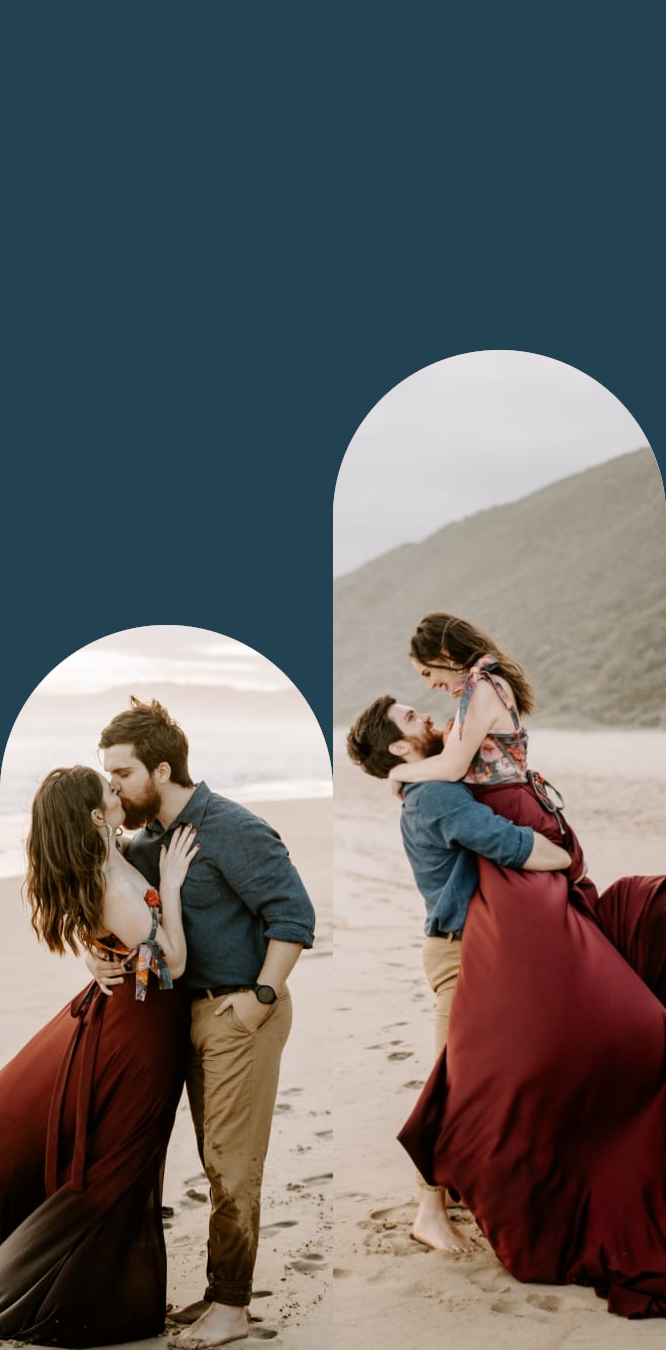
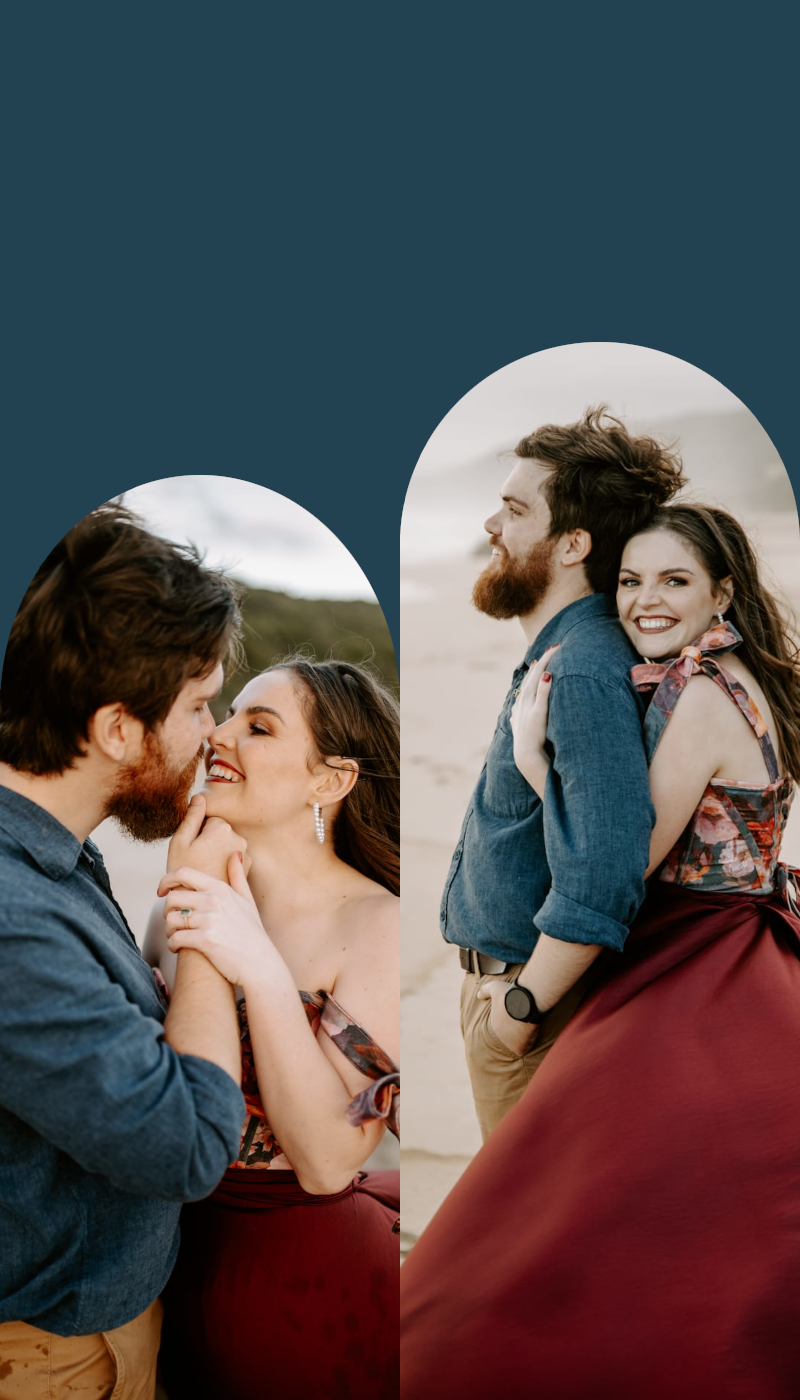
major updates made to home page

diff --git a/src/pages/Home.js b/src/pages/Home.js
@@ -6,6 +6,9 @@ import { FloatingLabel, Button, Form, Image } from "react-bootstrap";
 import initials from "../assets/initials.png";
 import dresscode from "../assets/dresscode.png";
 import desc2 from "../assets/desc2.png";
+import desc2small from "../assets/desc2small.png";
+import desc2xsmall from "../assets/desc2xsmall.png";
+import collage from "../assets/collage.png";
 
 import "./static/home.css";
 
@@ -55,6 +58,8 @@ function HomePage() {
             <div className="invite-wrapper">
                 <div className="day-invite">
                     <Image className="day-image" src={desc2} />
+                    <Image className="day-image-small" src={desc2small} />
+                    <Image className="day-image-xsmall" src={desc2xsmall} />
                 </div>
                 <div className="invite-details">
                     <span className="what-wrapper">
@@ -63,6 +68,8 @@ function HomePage() {
                     <br />
                     <div className="desc-container">
                         <span className="invite-description">
+                            Kom geniet 'n heerlike naweek troue saam ons!
+                            <br />
                             Jy word hartlik uitgenooi om in Ruben en Anjune se spesiale dag te deel.
                             <br />
                             Sien onder belangrike inligting rakende die troudag.
@@ -105,10 +112,13 @@ function HomePage() {
                     <span className="dresscode">kleredrag</span>
                     <br />
                     <span className="dresscode-description">
-                        Mans: swart broek, wit hemp, swart das (swart baadjie opsioneel)
+                        <strong>Swart</strong> en <strong>formeel</strong>
                         <br />
                         <br />
-                        Dames: Swart rok of broekpak (geen vrou mag enige vorm van wit dra nie)
+                        Mans: swart broek, wit hemp, swart das
+                        <br />
+                        <br />
+                        Dames: Swart rok of broekpak
                     </span>
                     <div className="dresscode-images">
                         <Image className="dresscode-image" src={dresscode} />
@@ -121,6 +131,7 @@ function HomePage() {
                     <br />
                     <span className="smaller-details-description">
                         Metgesel slegs per uitnodiging
+                        <br />
                         <br />
                         Kontant kroeg op die venue beskikbaar
                     </span>
@@ -205,7 +216,7 @@ function HomePage() {
                                         value={thirdSong}
                                     />
                                 </FloatingLabel>
-                                <div>
+                                <div className="btn-container">
                                     <Button className="btn btn-color submit-button" type="submit">
                                         submit
                                     </Button>
@@ -275,7 +286,6 @@ function HomePage() {
                     </span>
                 </div>
             </div>
-            <div className="images-wrapper"></div>
             <div className="clock-wrapper">
                 <div className="countdown-clock">
                     <FlipCountdown
@@ -285,6 +295,9 @@ function HomePage() {
                         endAt={"2024-03-30 15:00:00"}
                     />
                 </div>
+            </div>
+            <div className="images-wrapper">
+            <Image className="collage" src={collage} />
             </div>
         </div>
     );

diff --git a/src/pages/static/home.css b/src/pages/static/home.css
@@ -1,9 +1,12 @@
 body {
     background-image: url("../../assets/main.jpeg");
     background-repeat: no-repeat;
-    background-size: cover;
+    background-size: 750px;
     background-attachment: fixed;
-    background-position: center;
+    background-position: center top;
+    max-width: 750px;
+    border: 1px solid red;
+    margin: 0 auto;
 }
 
 .main-content {
@@ -33,14 +36,54 @@ body {
     text-transform: lowercase !important;
 }
 
-.day-image {
-    width: 100%;
-}
-
 .invite-wrapper {
     position: relative;
     text-align: left;
-    padding-bottom: 225%;
+    padding-bottom: 185%;
+}
+
+@media only screen and (max-width: 349px) {
+    .day-image-xsmall {
+        display: block;
+    }
+    .day-image-small,
+    .day-image {
+        display: none;
+    }
+
+    .invite-wrapper {
+        padding-bottom: 245% !important;
+    }
+}
+
+@media only screen and (min-width: 350px) and (max-width: 509px) {
+    .day-image-small {
+        display: block;
+    }
+    .day-image-xsmall,
+    .day-image {
+        display: none;
+    }
+
+    .invite-wrapper {
+        padding-bottom: 215% !important;
+    }
+}
+
+@media only screen and (min-width: 510px) {
+    .day-image {
+        display: block;
+    }
+    .day-image-small,
+    .day-image-xsmall {
+        display: none;
+    }
+}
+
+.day-image,
+.day-image-small,
+.day-image-xsmall {
+    width: 100%;
 }
 
 .day-invite,
@@ -74,6 +117,24 @@ body {
 .accomodation-wrapper,
 .gift-wrapper {
     padding-bottom: 15%;
+}
+
+@media only screen and (max-width: 349px) {
+    .desc-container {
+        max-width: 80% !important;
+        padding-left: 25px;
+        padding-top: 25px;
+        color: ivory;
+    }
+}
+
+@media only screen and (min-width: 350px) and (max-width: 509px) {
+    .desc-container {
+        max-width: 65% !important;
+        padding-left: 25px;
+        padding-top: 25px;
+        color: ivory;
+    }
 }
 
 .desc-container {
@@ -185,6 +246,7 @@ body {
     flex-direction: column;
     align-items: center;
     justify-content: center;
+    text-align: center;
 }
 
 .contact-form {
@@ -198,4 +260,20 @@ body {
 
 .form-input:focus {
     outline: none;
+}
+
+.submit-button {
+    margin: 0 auto;
+}
+
+.btn-container {
+    text-align: center;
+}
+
+.images-wrapper {
+    border: 1px solid green;
+}
+
+.collage {
+    width: 100%;
 }

diff --git a/public/index.html b/public/index.html
@@ -10,34 +10,11 @@
       content="Web site created using create-react-app"
     />
     <link rel="apple-touch-icon" href="%PUBLIC_URL%/logo192.png" />
-    <!--
-      manifest.json provides metadata used when your web app is installed on a
-      user's mobile device or desktop. See https://developers.google.com/web/fundamentals/web-app-manifest/
-    -->
     <link rel="manifest" href="%PUBLIC_URL%/manifest.json" />
-    <!--
-      Notice the use of %PUBLIC_URL% in the tags above.
-      It will be replaced with the URL of the `public` folder during the build.
-      Only files inside the `public` folder can be referenced from the HTML.
-
-      Unlike "/favicon.ico" or "favicon.ico", "%PUBLIC_URL%/favicon.ico" will
-      work correctly both with client-side routing and a non-root public URL.
-      Learn how to configure a non-root public URL by running `npm run build`.
-    -->
     <title>React App</title>
   </head>
   <body>
     <noscript>You need to enable JavaScript to run this app.</noscript>
     <div id="root"></div>
-    <!--
-      This HTML file is a template.
-      If you open it directly in the browser, you will see an empty page.
-
-      You can add webfonts, meta tags, or analytics to this file.
-      The build step will place the bundled scripts into the <body> tag.
-
-      To begin the development, run `npm start` or `yarn start`.
-      To create a production bundle, use `npm run build` or `yarn build`.
-    -->
   </body>
 </html>
